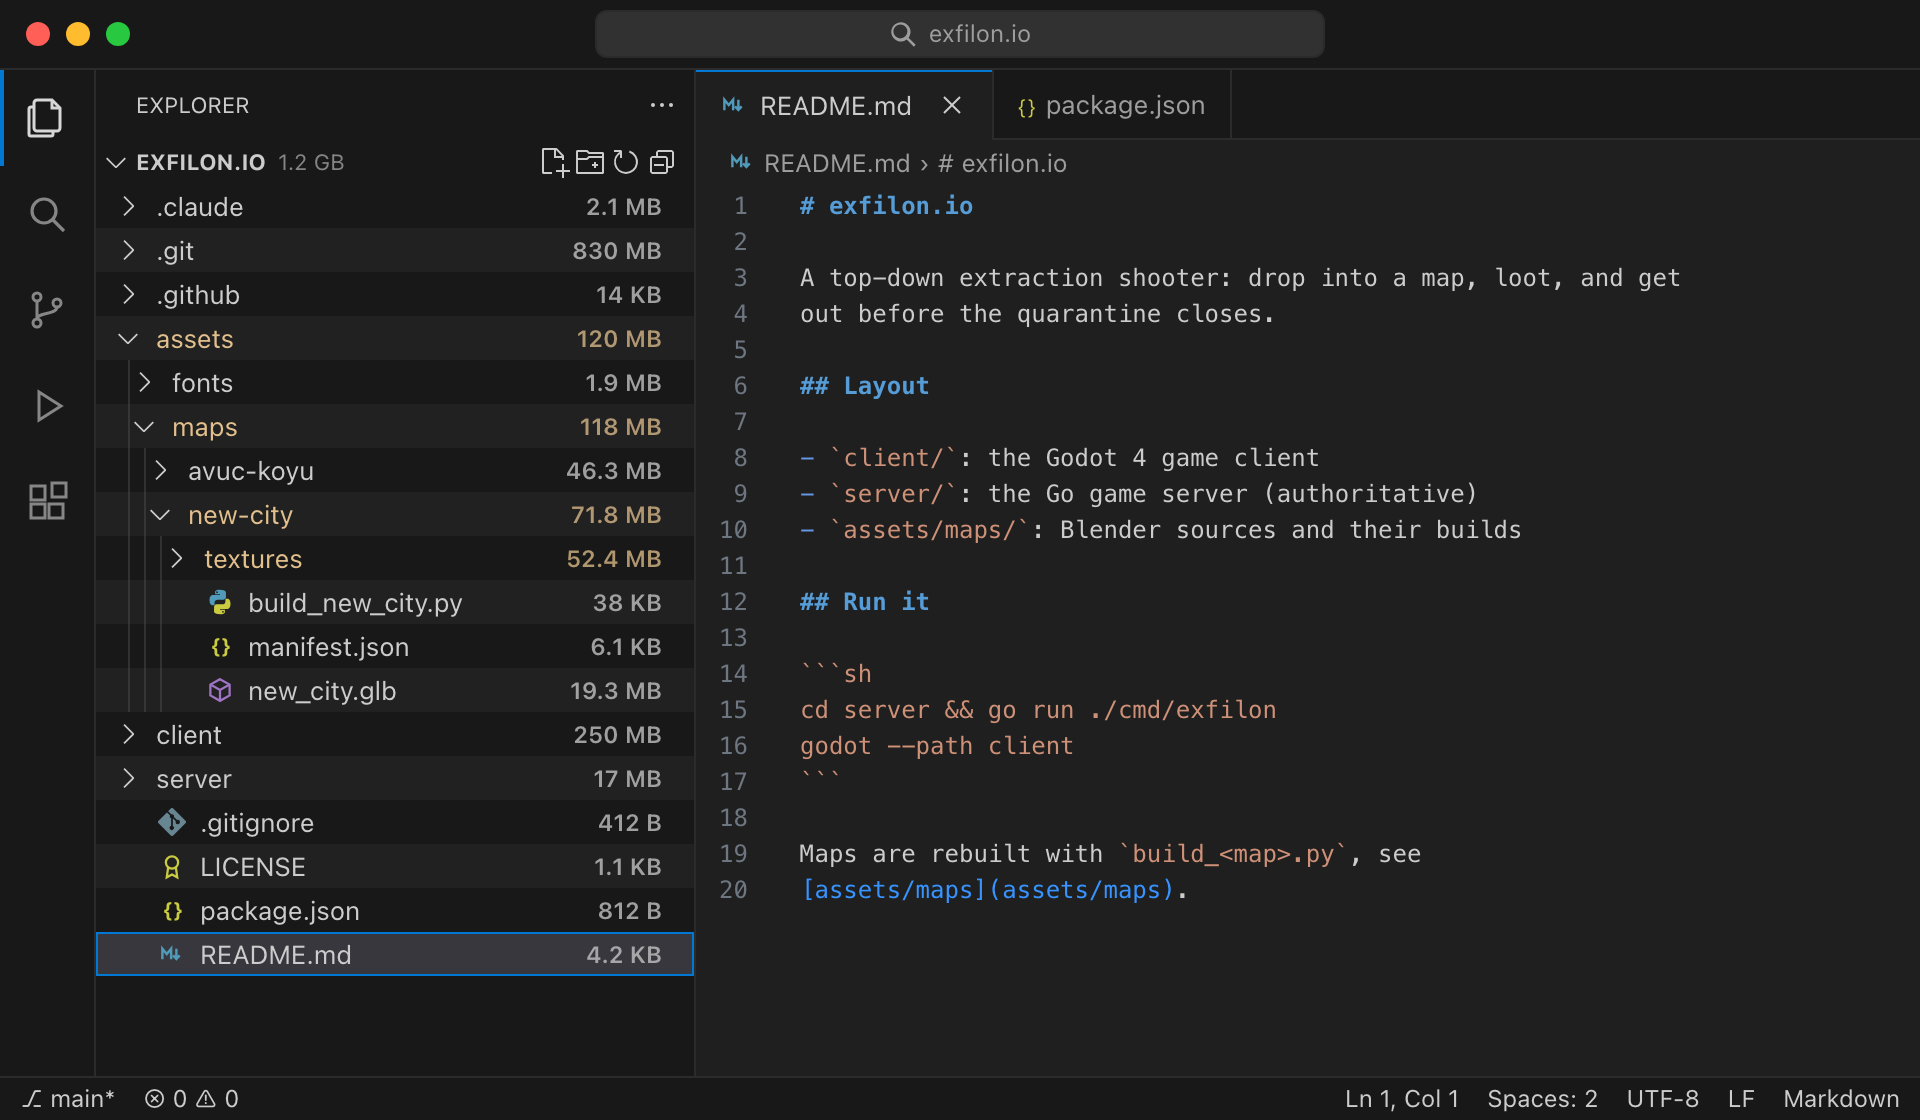
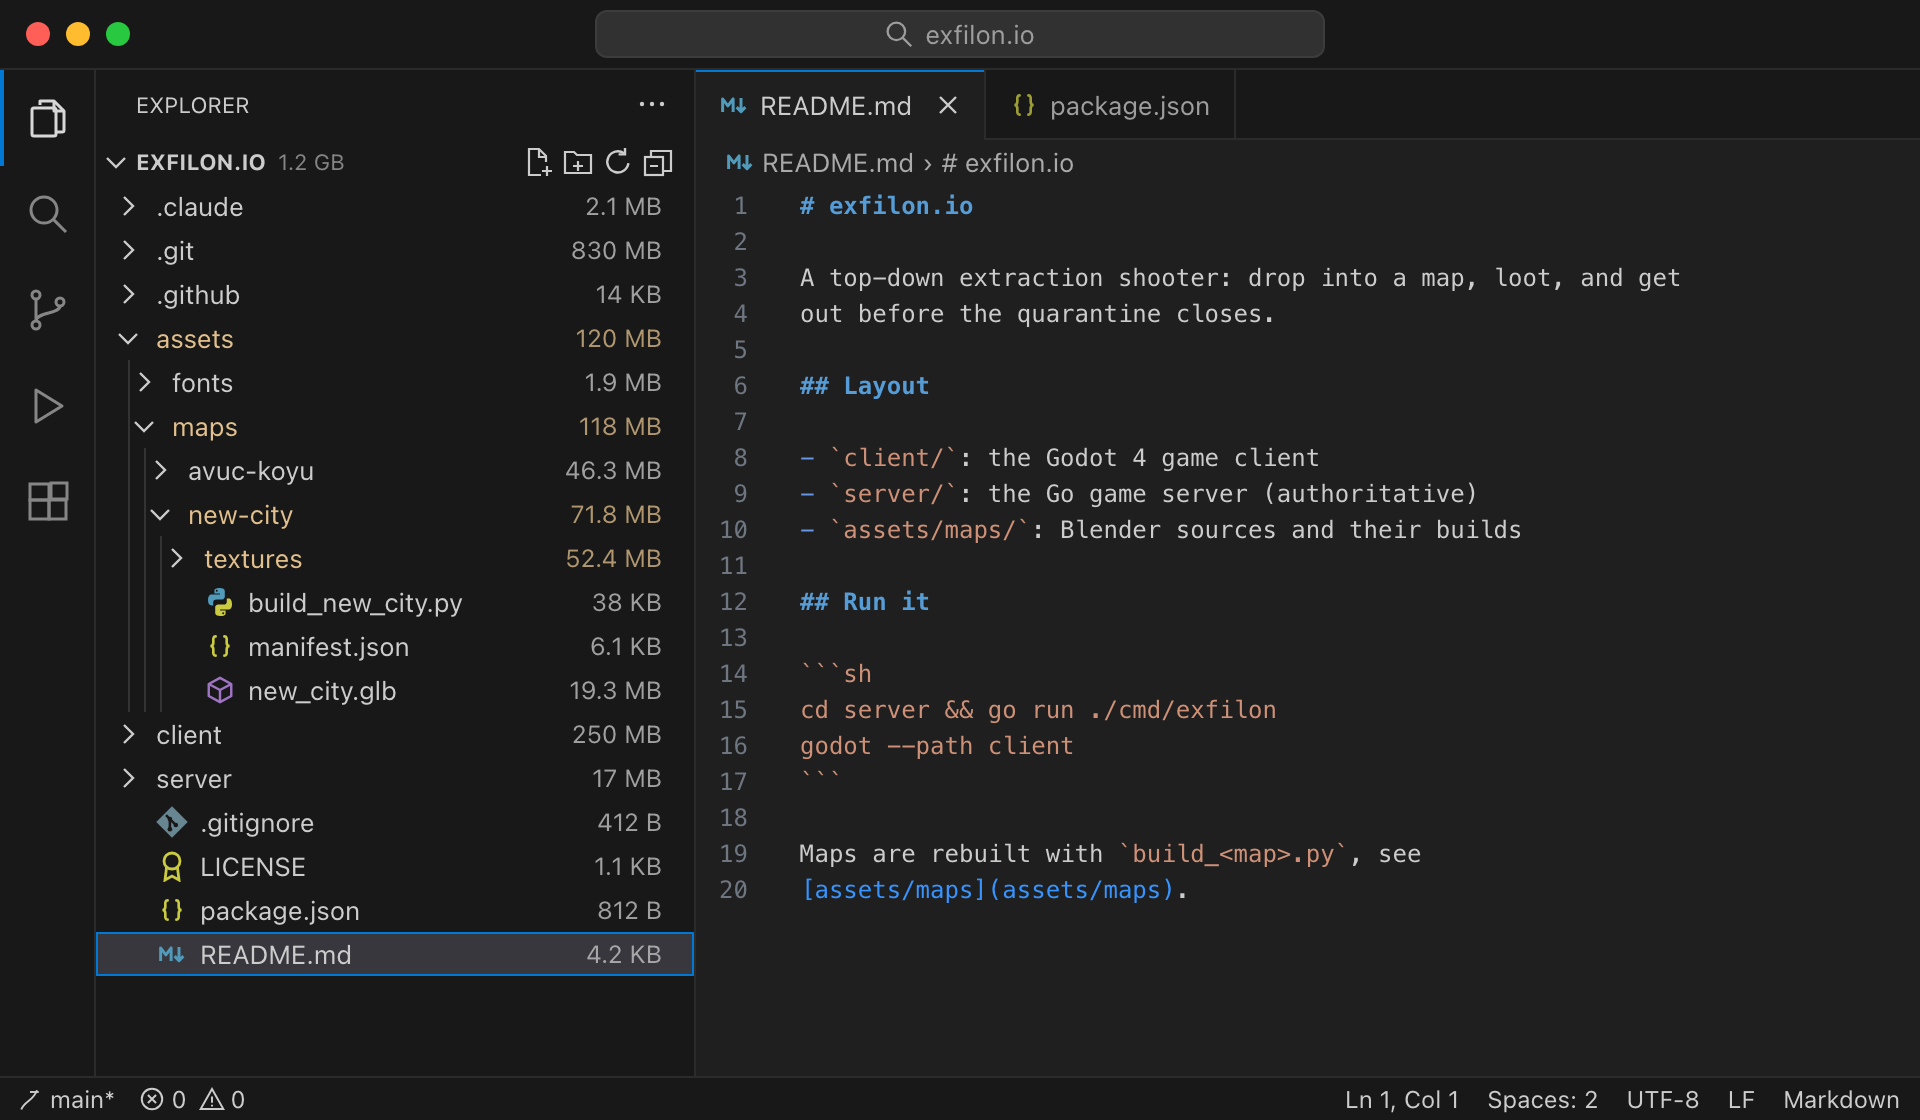
Screenshots without zebra rows, from a mock-up kept in mockup/
The extension no longer draws zebra stripes, so the three Marketplace screenshots are redrawn with the plain side bar
background on every row (hover and selection as VS Code draws them); the tree, sizes, heading total, git colours and
tooltip are as before. The HTML mock-up they come from is now in mockup/mock.html, with mockup/render.sh rendering it
with headless Chrome into images/ and extension/images/. The Chrome profile it uses is ignored.

Claude-Session: https://claude.ai/code/session_01Wdgs95puJD9x8JccR4Q9WM

diff --git a/mockup/mock.html b/mockup/mock.html
@@ -1,0 +1,284 @@
+<!doctype html>
+<html>
+<head>
+<meta charset="utf-8">
+<title>Explorer Sizes mock-up</title>
+<!--
+  A mock-up of VS Code's Explorer with Explorer Sizes, for the Marketplace screenshots.
+  Query parameters:
+    theme=dark|light   Default Dark Modern / Default Light Modern (default dark)
+    sidebar=N          the side bar's width in CSS px, its right border included (default 300)
+    hover=NAME         the row under the mouse (none by default)
+    tooltip=1          the hovered row's tooltip, under it
+    select=NAME        the selected, focused row (default README.md; select= for none)
+    tabs=1|0           show the package.json tab beside README.md (default 1)
+  Render with render.sh.
+-->
+<style>
+  :root {
+    --font: -apple-system, BlinkMacSystemFont, "SF Pro Text", "Helvetica Neue", sans-serif;
+    --mono: Menlo, Monaco, "Courier New", monospace;
+  }
+  body.dark {
+    --bg: #181818; --editor: #1f1f1f; --border: #2b2b2b; --fg: #cccccc;
+    --muted: #9d9d9d; --activity: #868686; --activity-active: #d7d7d7; --accent: #0078d4;
+    --search-bg: #313131; --search-border: #3c3c3c; --search-fg: #9d9d9d;
+    --hover: #2a2d2e; --sel: #37373d; --focus: #0078d4;
+    --git: #e2c08d; --guide: #333333; --chevron: #cccccc;
+    --lineno: #6e7681; --md-head: #569cd6; --md-code: #ce9178; --md-link: #3794ff; --md-dash: #6796e6;
+    --breadcrumb: #a9a9a9; --tab-inactive: #9d9d9d;
+    --hover-bg: #202020; --hover-border: #454545; --hover-shadow: rgba(0, 0, 0, .36);
+  }
+  body.light {
+    --bg: #f8f8f8; --editor: #ffffff; --border: #e5e5e5; --fg: #3b3b3b;
+    --muted: #868686; --activity: #616161; --activity-active: #1f1f1f; --accent: #005fb8;
+    --search-bg: #ffffff; --search-border: #cecece; --search-fg: #717171;
+    --hover: #f2f2f2; --sel: #e4e6f1; --focus: #005fb8;
+    --git: #895503; --guide: #d9d9d9; --chevron: #3b3b3b;
+    --lineno: #6e7681; --md-head: #800000; --md-code: #a31515; --md-link: #0451a5; --md-dash: #0451a5;
+    --breadcrumb: #616161; --tab-inactive: #868686;
+    --hover-bg: #f8f8f8; --hover-border: #c8c8c8; --hover-shadow: rgba(0, 0, 0, .16);
+  }
+  * { box-sizing: border-box; }
+  html, body { margin: 0; height: 100%; overflow: hidden; }
+  body { background: var(--bg); color: var(--fg); font: 13px/22px var(--font); -webkit-font-smoothing: antialiased; }
+  svg { display: block; flex-shrink: 0; }
+  .abs { position: absolute; }
+
+  #title { left: 0; right: 0; top: 0; height: 35px; border-bottom: 1px solid var(--border); background: var(--bg); }
+  .light-dot { position: absolute; top: 11px; width: 12px; height: 12px; border-radius: 50%; }
+  #search { position: absolute; top: 5px; height: 24px; left: 50%; transform: translateX(-50%);
+    background: var(--search-bg); border: 1px solid var(--search-border); border-radius: 6px;
+    display: flex; align-items: center; justify-content: center; gap: 6px; color: var(--search-fg); font-size: 13px; }
+
+  #activity { left: 0; top: 35px; bottom: 22px; width: 48px; border-right: 1px solid var(--border); }
+  #activity .item { position: absolute; left: 0; width: 48px; height: 48px; display: flex; align-items: center; justify-content: center; color: var(--activity); }
+  #activity .item.active { color: var(--activity-active); }
+  #activity .item.active::before { content: ""; position: absolute; left: 0; top: 0; bottom: 0; width: 2px; background: var(--accent); }
+
+  #sidebar { left: 48px; top: 35px; bottom: 22px; border-right: 1px solid var(--border); overflow: hidden; }
+  #sidebar .header { height: 35px; padding-left: 20px; display: flex; align-items: center; font-size: 11px; position: relative; }
+  #sidebar .header .more { position: absolute; right: 13px; top: 9px; }
+  #heading { height: 22px; position: relative; display: flex; align-items: center; font-size: 11px; }
+  #heading .chev { position: absolute; left: 2px; top: 3px; }
+  #heading .name { position: absolute; left: 20px; font-weight: 700; }
+  #heading .total { opacity: .6; margin-left: 6px; font-weight: 400; }
+  #heading .actions { position: absolute; right: 9px; top: 2px; display: flex; gap: 2px; }
+  #heading .actions span { width: 18px; height: 18px; display: flex; align-items: center; justify-content: center; }
+  #tree { position: relative; }
+  .row { position: relative; height: 22px; white-space: nowrap; }
+  .row.hover { background: var(--hover); }
+  .row.sel { background: var(--sel); }
+  .row.sel::after { content: ""; position: absolute; inset: 0; border: 1px solid var(--focus); }
+  .row .twistie { position: absolute; top: 3px; }
+  .row .icon { position: absolute; top: 3px; width: 16px; height: 16px; display: flex; align-items: center; justify-content: center; }
+  .row .label { position: absolute; }
+  .row .size { position: absolute; right: 16px; opacity: .75; font-size: 12.35px; }
+  .row.git .label, .row.git .size { color: var(--git); }
+  .guide { position: absolute; width: 1px; background: var(--guide); }
+
+  #editor { top: 35px; bottom: 22px; right: 0; background: var(--editor); overflow: hidden; }
+  #tabs { height: 35px; background: var(--bg); display: flex; border-bottom: 1px solid var(--border); position: relative; }
+  .tab { height: 35px; display: flex; align-items: center; padding: 0 10px 0 12px; gap: 6px; border-right: 1px solid var(--border); color: var(--tab-inactive); font-size: 13px; position: relative; white-space: nowrap; }
+  .tab.active { background: var(--editor); color: var(--fg); margin-bottom: -1px; height: 35px; }
+  .tab.active::before { content: ""; position: absolute; left: 0; right: 0; top: 0; height: 1px; background: var(--accent); }
+  .tab .close { margin-left: 4px; }
+  #breadcrumb { height: 22px; display: flex; align-items: center; gap: 4px; padding-left: 15px; color: var(--breadcrumb); font-size: 13px; white-space: nowrap; }
+  #code { font: 12px/18px var(--mono); white-space: pre; position: relative; padding-top: 2px; }
+  #code .ln { position: absolute; width: 26px; text-align: right; color: var(--lineno); }
+  #code .tx { position: absolute; left: 52px; }
+  .h { color: var(--md-head); font-weight: 700; }
+  .c { color: var(--md-code); }
+  .l { color: var(--md-link); }
+  .d { color: var(--md-dash); }
+
+  #status { left: 0; right: 0; bottom: 0; height: 22px; border-top: 1px solid var(--border); background: var(--bg);
+    font-size: 12px; line-height: 21px; display: flex; align-items: center; padding: 0 10px 0 8px; white-space: nowrap; }
+  #status .item { display: flex; align-items: center; gap: 3px; margin-right: 12px; }
+  #status .right { margin-left: auto; display: flex; }
+  #status .right .item { margin: 0 0 0 14px; }
+
+  #tooltip { position: absolute; background: var(--hover-bg); border: 1px solid var(--hover-border); border-radius: 4px;
+    box-shadow: 0 2px 8px var(--hover-shadow); padding: 0 8px; height: 28px; line-height: 26px; font-size: 13px; white-space: nowrap; z-index: 5; }
+  #tooltip .arrow { position: absolute; top: -5px; width: 8px; height: 8px; background: var(--hover-bg);
+    border-left: 1px solid var(--hover-border); border-top: 1px solid var(--hover-border); transform: rotate(45deg); }
+</style>
+</head>
+<body>
+<div id="title" class="abs">
+  <div class="light-dot" style="left:13px;background:#ff5f57"></div>
+  <div class="light-dot" style="left:33px;background:#febc2e"></div>
+  <div class="light-dot" style="left:53px;background:#28c840"></div>
+  <div id="search">
+    <svg width="14" height="14" viewBox="0 0 16 16" fill="none" stroke="currentColor" stroke-width="1.3"><circle cx="6.5" cy="6.5" r="5"/><path d="M10.2 10.2 15 15"/></svg>
+    <span>exfilon.io</span>
+  </div>
+</div>
+<div id="activity" class="abs"></div>
+<div id="sidebar" class="abs">
+  <div class="header">EXPLORER<span class="more"><svg width="16" height="16" viewBox="0 0 16 16" fill="currentColor"><circle cx="3" cy="8" r="1.1"/><circle cx="8" cy="8" r="1.1"/><circle cx="13" cy="8" r="1.1"/></svg></span></div>
+  <div id="heading">
+    <span class="chev"></span>
+    <span class="name">EXFILON.IO<span class="total">1.2 GB</span></span>
+    <span class="actions"></span>
+  </div>
+  <div id="tree"></div>
+</div>
+<div id="editor" class="abs">
+  <div id="tabs"></div>
+  <div id="breadcrumb"></div>
+  <div id="code"></div>
+</div>
+<div id="status" class="abs">
+  <span class="item"><svg width="14" height="14" viewBox="0 0 16 16" fill="none" stroke="currentColor" stroke-width="1.1"><path d="M3 14 C5 9 10 9 12 3"/><path d="M8 4h5"/></svg>main*</span>
+  <span class="item"><svg width="13" height="13" viewBox="0 0 16 16" fill="none" stroke="currentColor" stroke-width="1.2"><circle cx="8" cy="8" r="6.3"/><path d="M5.5 5.5l5 5M10.5 5.5l-5 5"/></svg>0
+    <svg width="13" height="13" viewBox="0 0 16 16" fill="none" stroke="currentColor" stroke-width="1.2" style="margin-left:3px"><path d="M8 1.8 15 14.2H1z"/><path d="M8 6.5v3.8M8 11.6v1"/></svg>0</span>
+  <span class="right">
+    <span class="item">Ln 1, Col 1</span><span class="item">Spaces: 2</span><span class="item">UTF-8</span><span class="item">LF</span><span class="item">Markdown</span>
+  </span>
+</div>
+<script>
+const q = new URLSearchParams(location.search);
+const theme = q.get('theme') === 'light' ? 'light' : 'dark';
+const SW = +(q.get('sidebar') || 300);
+const hover = q.get('hover');
+const select = q.has('select') ? q.get('select') : 'README.md';
+document.body.className = theme;
+
+// --- icons -----------------------------------------------------------------
+const chevRight = '<svg width="16" height="16" viewBox="0 0 16 16" fill="none" stroke="var(--chevron)" stroke-width="1.2"><path d="M6 3.5 10.5 8 6 12.5"/></svg>';
+const chevDown = '<svg width="16" height="16" viewBox="0 0 16 16" fill="none" stroke="var(--chevron)" stroke-width="1.2"><path d="M3.5 6 8 10.5 12.5 6"/></svg>';
+const icons = {
+  md: '<svg width="14" height="14" viewBox="0 0 16 16" fill="none" stroke="#519aba" stroke-width="1.7" stroke-linejoin="round"><path d="M1.5 12V4.5l3 4 3-4V12"/><path d="M12 4v7.5M9.5 9.2 12 11.8l2.5-2.6"/></svg>',
+  json: '<svg width="14" height="14" viewBox="0 0 16 16" fill="none" stroke="#cbcb41" stroke-width="1.5" stroke-linecap="round"><path d="M5.5 2.5C3.8 2.5 4.2 4.5 4.2 6S3.5 8 2.5 8c1 0 1.7.5 1.7 2s-.4 3.5 1.3 3.5"/><path d="M10.5 2.5c1.7 0 1.3 2 1.3 3.5s.7 2 1.7 2c-1 0-1.7.5-1.7 2s.4 3.5-1.3 3.5"/></svg>',
+  py: '<svg width="16" height="16" viewBox="0 0 16 16"><path fill="#519aba" d="M7.9 1C5 1 5.2 2.3 5.2 2.3v1.4H8v.5H3.9S2 4 2 6.9s1.6 2.8 1.6 2.8h1V8.3s-.1-1.6 1.6-1.6h2.7s1.5 0 1.5-1.5V2.6S10.6 1 7.9 1zM6.4 1.9a.5.5 0 1 1 0 1 .5.5 0 0 1 0-1z"/><path fill="#cbcb41" d="M8.1 15c2.9 0 2.7-1.3 2.7-1.3v-1.4H8v-.5h4.1S14 12 14 9.1s-1.6-2.8-1.6-2.8h-1v1.4s.1 1.6-1.6 1.6H7.1s-1.5 0-1.5 1.5v2.6S5.4 15 8.1 15zm1.5-.9a.5.5 0 1 1 0-1 .5.5 0 0 1 0 1z"/></svg>',
+  glb: '<svg width="15" height="15" viewBox="0 0 16 16" fill="none" stroke="#a074c4" stroke-width="1.3" stroke-linejoin="round"><path d="M8 1.5 14 4.8v6.4L8 14.5 2 11.2V4.8z"/><path d="M2 4.8 8 8l6-3.2M8 8v6.5"/></svg>',
+  git: '<svg width="17" height="17" viewBox="0 0 16 16"><path fill="#688592" d="M8 .6 15.4 8 8 15.4.6 8z"/><g fill="none" stroke="var(--bg)" stroke-width="1.2"><path d="M5.2 4.8 9.6 9.2M7 6.6v5"/></g><g fill="var(--bg)"><circle cx="7" cy="11.4" r="1.1"/><circle cx="7" cy="6.6" r="1.1"/><circle cx="9.8" cy="9.4" r="1.1"/></g></svg>',
+  license: '<svg width="14" height="16" viewBox="0 0 14 16" fill="none" stroke="#cbcb41" stroke-width="1.4"><circle cx="7" cy="5.5" r="4"/><path d="M4.3 8.6 3.5 15 7 13l3.5 2-.8-6.4"/></svg>',
+};
+
+// --- activity bar ----------------------------------------------------------
+const act = [
+  '<svg width="24" height="24" viewBox="0 0 24 24" fill="none" stroke="currentColor" stroke-width="1.5" stroke-linejoin="round"><path d="M8 5.5V3.5h7l5 5V18a1 1 0 0 1-1 1h-3"/><path d="M15 3.5v5h5"/><rect x="4" y="7" width="12" height="14" rx="1"/></svg>',
+  '<svg width="24" height="24" viewBox="0 0 24 24" fill="none" stroke="currentColor" stroke-width="1.5"><circle cx="10" cy="10" r="6.5"/><path d="M14.8 14.8 21 21"/></svg>',
+  '<svg width="24" height="24" viewBox="0 0 24 24" fill="none" stroke="currentColor" stroke-width="1.5"><circle cx="6" cy="4.5" r="2"/><circle cx="6" cy="19.5" r="2"/><circle cx="18" cy="8" r="2"/><path d="M6 6.5v11M18 10c0 4-12 3-12 7.5"/></svg>',
+  '<svg width="24" height="24" viewBox="0 0 24 24" fill="none" stroke="currentColor" stroke-width="1.5" stroke-linejoin="round"><path d="M6 4v16l13-8z"/></svg>',
+  '<svg width="24" height="24" viewBox="0 0 24 24" fill="none" stroke="currentColor" stroke-width="1.5"><rect x="3" y="11" width="9.5" height="9.5"/><rect x="3" y="3" width="9.5" height="8"/><rect x="12.5" y="11" width="8.5" height="9.5"/><rect x="13.5" y="2.5" width="8" height="8"/></svg>',
+];
+document.getElementById('activity').innerHTML = act.map((s, i) =>
+  `<div class="item${i === 0 ? ' active' : ''}" style="top:${i * 48}px">${s}</div>`).join('');
+
+// --- side bar --------------------------------------------------------------
+const sidebar = document.getElementById('sidebar');
+sidebar.style.width = SW + 'px';
+document.querySelector('#heading .chev').innerHTML = chevDown;
+document.querySelector('#heading .actions').innerHTML = [
+  '<svg width="16" height="16" viewBox="0 0 16 16" fill="none" stroke="currentColor" stroke-width="1.1"><path d="M9.5 14.5H3.5v-13h5l3.5 3.5v3"/><path d="M8.5 1.5v4h3.5M12.5 10v5M10 12.5h5"/></svg>',
+  '<svg width="16" height="16" viewBox="0 0 16 16" fill="none" stroke="currentColor" stroke-width="1.1"><path d="M1.5 3h4.5l1.5 1.5h7v9h-13z"/><path d="M8 7.5v5M5.5 10h5"/></svg>',
+  '<svg width="16" height="16" viewBox="0 0 16 16" fill="none" stroke="currentColor" stroke-width="1.2"><path d="M13.2 8.6A5.3 5.3 0 1 1 11 3.6"/><path d="M11.5 1v3.2H8.3"/></svg>',
+  '<svg width="16" height="16" viewBox="0 0 16 16" fill="none" stroke="currentColor" stroke-width="1.1"><rect x="1.5" y="5.5" width="9" height="9"/><path d="M4.5 5.5v-3h10v10h-4M4 10h4"/></svg>',
+].map(s => `<span>${s}</span>`).join('');
+
+// level, name, kind (open | closed | file icon), size, git-modified
+const T = [
+  [0, '.claude', 'closed', '2.1 MB'],
+  [0, '.git', 'closed', '830 MB'],
+  [0, '.github', 'closed', '14 KB'],
+  [0, 'assets', 'open', '120 MB', 1],
+  [1, 'fonts', 'closed', '1.9 MB'],
+  [1, 'maps', 'open', '118 MB', 1],
+  [2, 'avuc-koyu', 'closed', '46.3 MB'],
+  [2, 'new-city', 'open', '71.8 MB', 1],
+  [3, 'textures', 'closed', '52.4 MB', 1],
+  [3, 'build_new_city.py', 'py', '38 KB'],
+  [3, 'manifest.json', 'json', '6.1 KB'],
+  [3, 'new_city.glb', 'glb', '19.3 MB'],
+  [0, 'client', 'closed', '250 MB'],
+  [0, 'server', 'closed', '17 MB'],
+  [0, '.gitignore', 'git', '412 B'],
+  [0, 'LICENSE', 'license', '1.1 KB'],
+  [0, 'package.json', 'json', '812 B'],
+  [0, 'README.md', 'md', '4.2 KB'],
+];
+const tree = document.getElementById('tree');
+let html = '';
+T.forEach(([lv, name, kind, size, git], i) => {
+  const folder = kind === 'open' || kind === 'closed';
+  const cls = ['row'];
+  if (git) cls.push('git');
+  if (name === hover) cls.push('hover');
+  if (name === select) cls.push('sel');
+  html += `<div class="${cls.join(' ')}" data-name="${name}">`;
+  if (folder) {
+    html += `<span class="twistie" style="left:${8 + 8 * lv}px">${kind === 'open' ? chevDown : chevRight}</span>`;
+    html += `<span class="label" style="left:${30 + 8 * lv}px">${name}</span>`;
+  } else {
+    html += `<span class="icon" style="left:${30 + 8 * lv}px">${icons[kind]}</span>`;
+    html += `<span class="label" style="left:${52 + 8 * lv}px">${name}</span>`;
+  }
+  html += `<span class="size">${size}</span></div>`;
+});
+// indent guides: under each open folder, down its descendants, at its twistie's centre
+T.forEach(([lv, , kind], i) => {
+  if (kind !== 'open') return;
+  let j = i + 1;
+  while (j < T.length && T[j][0] > lv) j++;
+  html += `<div class="guide" style="left:${16 + 8 * lv}px;top:${(i + 1) * 22}px;height:${(j - i - 1) * 22}px"></div>`;
+});
+tree.innerHTML = html;
+
+// --- editor ----------------------------------------------------------------
+const editor = document.getElementById('editor');
+editor.style.left = (48 + SW) + 'px';
+let tabs = `<div class="tab active">${icons.md}<span>README.md</span><span class="close"><svg width="16" height="16" viewBox="0 0 16 16" fill="none" stroke="currentColor" stroke-width="1.2"><path d="M4 4l8 8M12 4l-8 8"/></svg></span></div>`;
+if (q.get('tabs') !== '0') tabs += `<div class="tab" style="padding-right:12px">${icons.json.replace('stroke="#cbcb41"', 'stroke="#cbcb41" opacity=".75"')}<span>package.json</span></div>`;
+document.getElementById('tabs').innerHTML = tabs;
+document.getElementById('breadcrumb').innerHTML = `${icons.md}<span>README.md</span><span>›</span><span># exfilon.io</span>`;
+
+const L = [
+  '<span class="h"># exfilon.io</span>',
+  '',
+  'A top-down extraction shooter: drop into a map, loot, and get',
+  'out before the quarantine closes.',
+  '',
+  '<span class="h">## Layout</span>',
+  '',
+  '<span class="d">-</span> <span class="c">`client/`</span>: the Godot 4 game client',
+  '<span class="d">-</span> <span class="c">`server/`</span>: the Go game server (authoritative)',
+  '<span class="d">-</span> <span class="c">`assets/maps/`</span>: Blender sources and their builds',
+  '',
+  '<span class="h">## Run it</span>',
+  '',
+  '<span class="c">```sh</span>',
+  '<span class="c">cd server &amp;&amp; go run ./cmd/exfilon</span>',
+  '<span class="c">godot --path client</span>',
+  '<span class="c">```</span>',
+  '',
+  'Maps are rebuilt with <span class="c">`build_&lt;map&gt;.py`</span>, see',
+  '<span class="l">[assets/maps](assets/maps)</span>.',
+];
+document.getElementById('code').innerHTML = L.map((t, i) =>
+  `<div style="position:relative;height:18px"><span class="ln">${i + 1}</span><span class="tx">${t}</span></div>`).join('');
+
+// --- title bar search box ----------------------------------------------------
+document.getElementById('search').style.width = Math.round(innerWidth * 0.38) + 'px';
+
+// --- tooltip -----------------------------------------------------------------
+if (hover && q.get('tooltip') === '1') {
+  const i = T.findIndex(r => r[1] === hover);
+  const row = tree.children[i];
+  const r = row.getBoundingClientRect();
+  const [lv, name, kind, size] = T[i];
+  const bytes = { '.git': '870,318,104' }[name] || '';
+  const tip = document.createElement('div');
+  tip.id = 'tooltip';
+  tip.innerHTML = `~/repos/exfilon.io/${name} • ${size}${bytes ? ` (${bytes} bytes)` : ''}<span class="arrow"></span>`;
+  document.body.appendChild(tip);
+  const left = r.left + 30;
+  tip.style.left = left + 'px';
+  tip.style.top = (r.bottom + 8) + 'px';
+  tip.querySelector('.arrow').style.left = (r.left + 55 - left - 4) + 'px';
+}
+</script>
+</body>
+</html>
